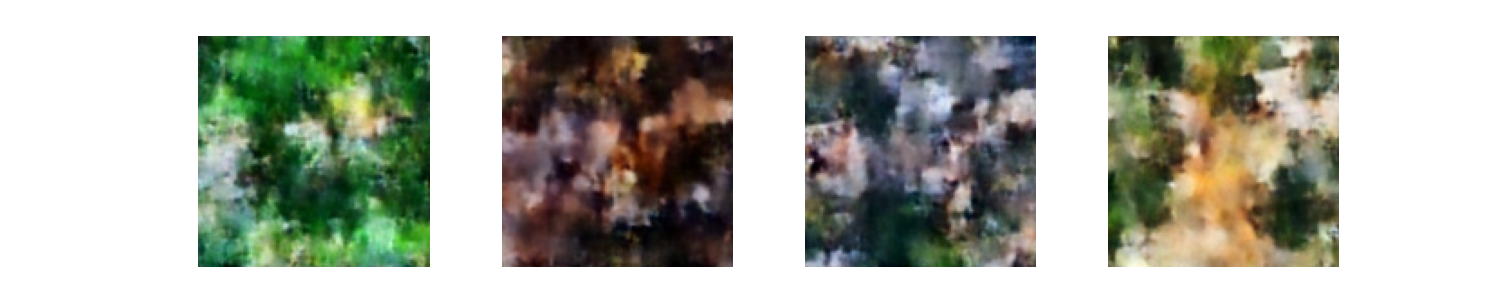
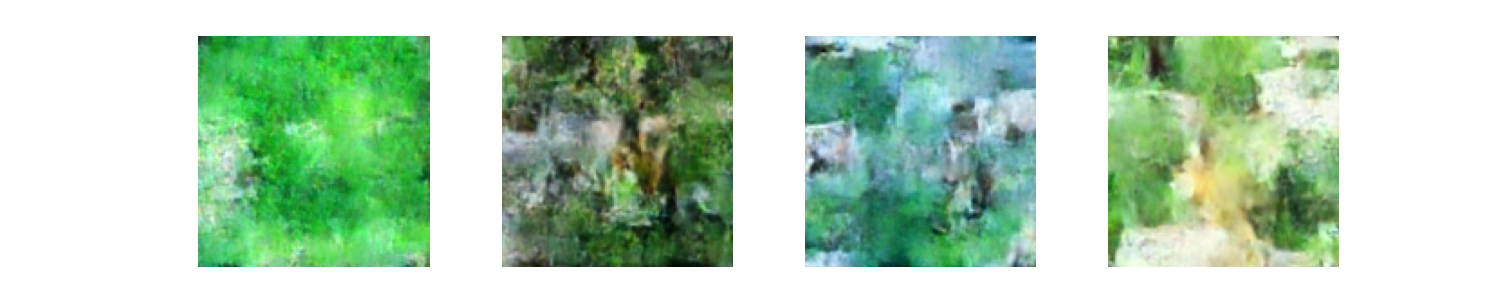
pause training

diff --git a/cloud/progressive_diffusion.py b/cloud/progressive_diffusion.py
@@ -21,9 +21,15 @@ class Config:
     
     # Progressive training parameters
     PROGRESSIVE_STAGES = [
+<<<<<<< HEAD
         #{'size': 64, 'epochs': 50, 'lr': 1e-4, 'batch_size': 330},
         {'size': 128, 'epochs': 50, 'lr': 1e-4, 'batch_size': 86},
         {'size': 224, 'epochs': 50, 'lr': 1e-5, 'batch_size': 30}
+=======
+        #{'size': 64, 'epochs': 50, 'lr': 3e-4, 'batch_size': 330},
+        {'size': 128, 'epochs': 10, 'lr': 1e-4, 'batch_size': 86},
+        {'size': 224, 'epochs': 100, 'lr': 3e-5, 'batch_size': 30}
+>>>>>>> 7c1f4e8 (pause training)
     ]
     
     # Model parameters
@@ -136,8 +142,13 @@ def train_progressive():
     # Create one UNet at the largest resolution 
     # (or pick the average/largest resolution you want):
     model = create_unet(input_size=224)
+<<<<<<< HEAD
     model.load_state_dict(torch.load(Config.WEIGHTS_DIR / f"diffusion_v2.4.pth", map_location=Config.device))
     logging.info("model loaded")
+=======
+    model.load_state_dict(torch.load(Config.WEIGHTS_DIR / "diffusion_v2.4.pth", map_location=Config.device))
+    logging.info("checkpoint loaded")
+>>>>>>> 7c1f4e8 (pause training)
     # Single optimizer for the entire training
     optimizer = torch.optim.AdamW(model.parameters(), lr=3e-4)
     
@@ -150,7 +161,11 @@ def train_progressive():
         prediction_type="epsilon"
     )
 
+<<<<<<< HEAD
     scaler = torch.amp.GradScaler("cuda")
+=======
+    scaler = torch.amp.GradScaler(Config.device=="cuda")
+>>>>>>> 7c1f4e8 (pause training)
 
     for stage_idx, stage_cfg in enumerate(Config.PROGRESSIVE_STAGES):
         current_size = stage_cfg['size']
@@ -203,10 +218,17 @@ def train_progressive():
             logging.info(f"Stage {stage_idx+1} | Epoch {epoch}/{stage_cfg['epochs']} | Loss: {avg_loss:.4f}")
             
             # Save checkpoint or generate samples if you want
+<<<<<<< HEAD
             if epoch % Config.PLOT_EVERY == 0:
                 generate_samples(model, scheduler, current_size, epoch)
                 save_checkpoint(model, avg_loss)
 
+=======
+            
+            if epoch % Config.PLOT_EVERY == 0:
+                generate_samples(model, scheduler, current_size, epoch)
+                save_checkpoint(model, avg_loss) 
+>>>>>>> 7c1f4e8 (pause training)
     logging.info("Progressive training completed!")
 
 
